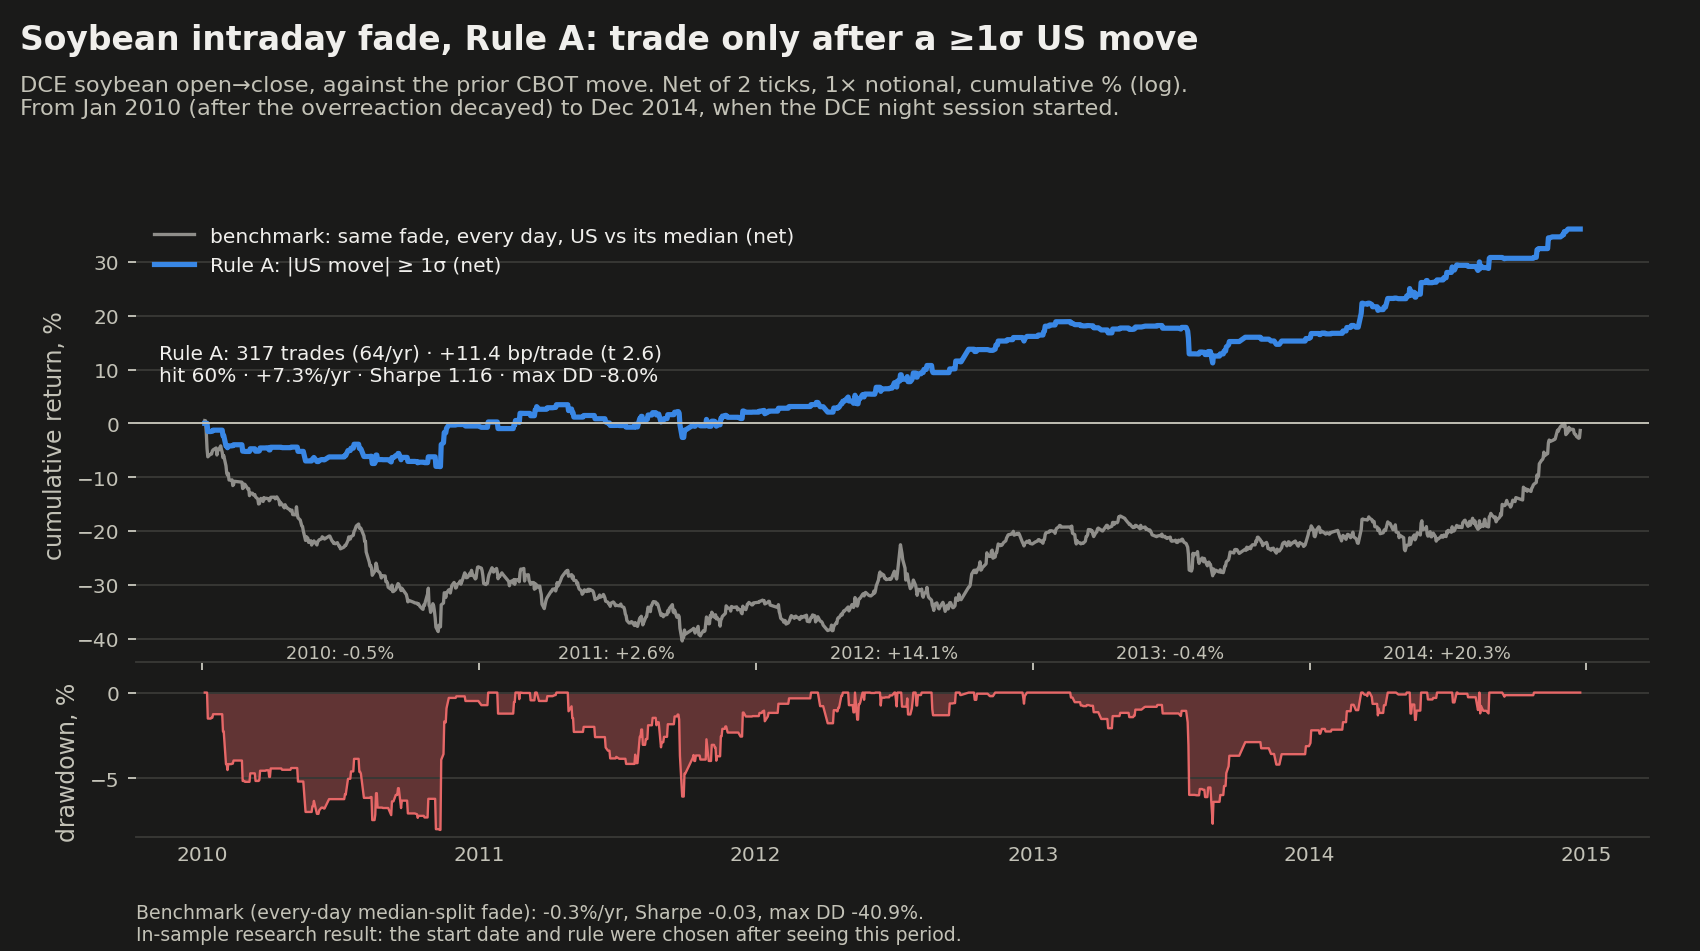
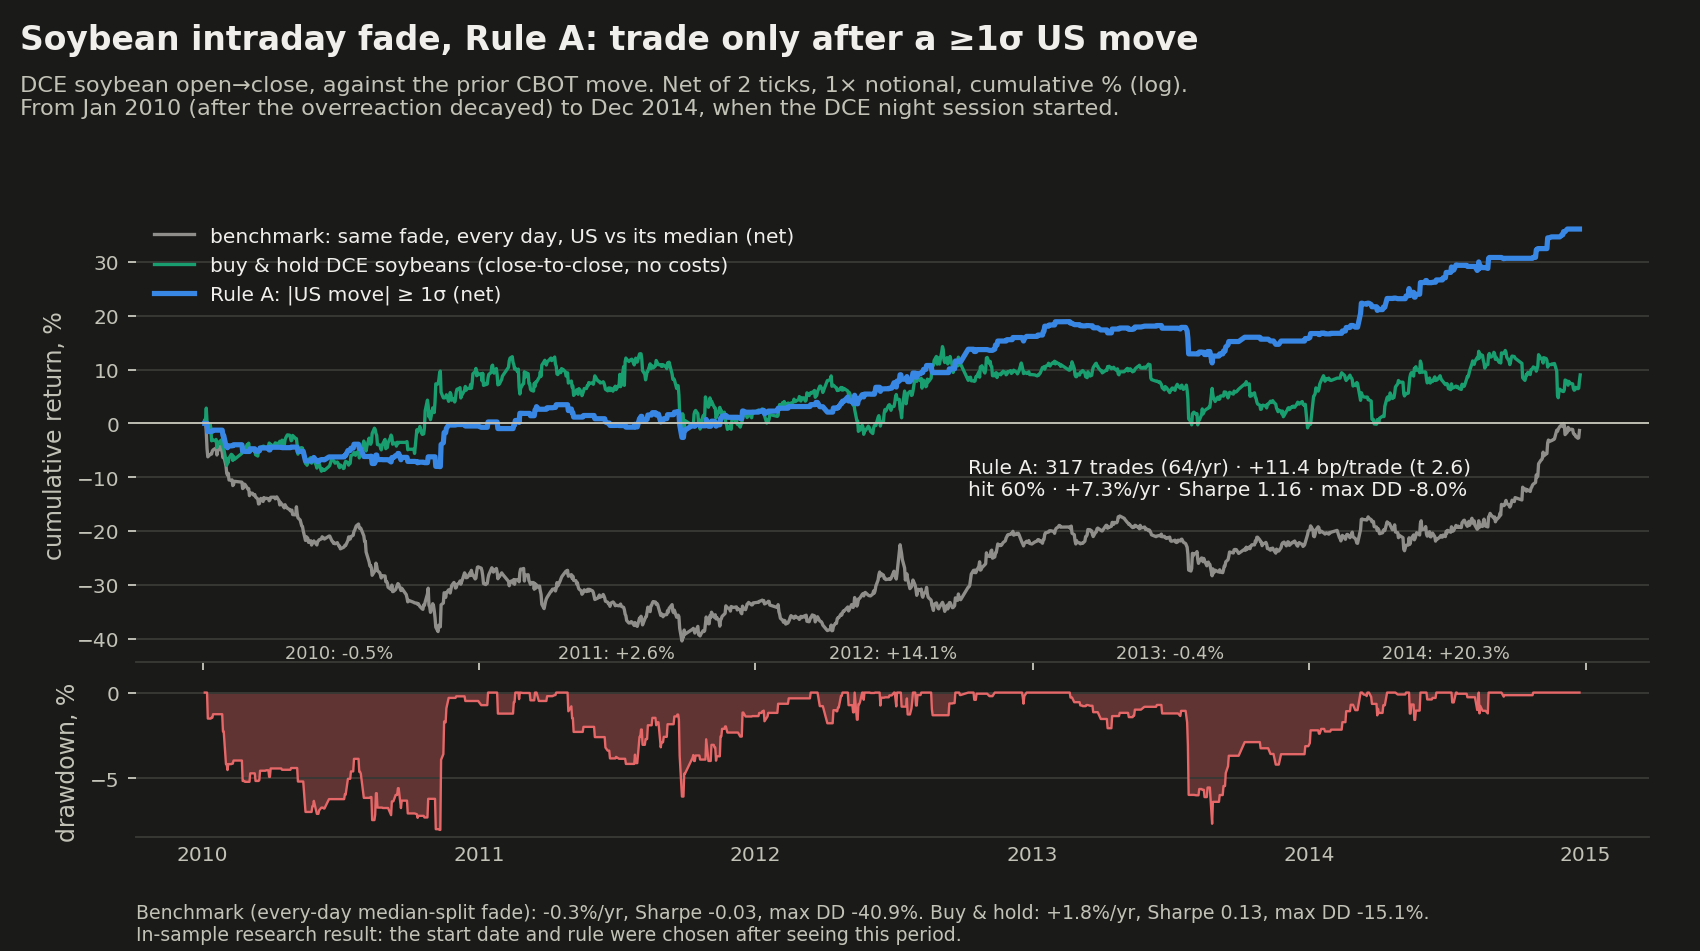
Add buy-and-hold DCE soybeans benchmark to Rule A backtest
- Chart 6: buy & hold line (close-to-close, roll days flat, no costs)
- STRATEGY.md: buy & hold in benchmark and results tables, yearly comparison,
  measured correlation with Rule A (0.04 daily, 0.28 monthly)
- README summary updated

diff --git a/scripts/08_soy_equity.py b/scripts/08_soy_equity.py
@@ -53,6 +53,9 @@ d["base_net"] = pos_b * j.CN_IN - pos_b.abs() * cost
 d = d.loc[START:].dropna(subset=["pos_A", "CN_IN"])
 d[["A_gross", "A_net", "base_net"]] = d[["A_gross", "A_net", "base_net"]].fillna(0)
 d.to_csv(TAB / "soy_ruleA_daily.csv")
+# buy & hold the underlying: long DCE soybean main contract, close-to-close on the DCE calendar.
+# Roll days (contract switch in the Sina series) are set to 0 ~ a roll-adjusted hold; no costs.
+bh = cnr["D"].loc[d.index[0]:end].fillna(0)
 
 
 def summary(p, pos):
@@ -65,19 +68,21 @@ def summary(p, pos):
                 sharpe=p.mean() / p.std() * np.sqrt(len(p) / yrs), maxdd_bp=1e4 * (eq - eq.cummax()).min())
 
 
-S = {"A": summary(d.A_net, d.pos_A), "base": summary(d.base_net, d.base_net.where(d.base_net == 0, 1))}
+S = {"A": summary(d.A_net, d.pos_A), "base": summary(d.base_net, d.base_net.where(d.base_net == 0, 1)),
+     "bh": summary(bh, pd.Series(1, index=bh.index))}
 for k, v in S.items():
     print(k, {a: round(b, 2) for a, b in v.items()})
 yearly = d.groupby(d.index.year).agg(trades=("pos_A", lambda x: int((x != 0).sum())),
                                      ruleA_net_pct=("A_net", lambda x: 100 * x.sum()),
                                      baseline_net_pct=("base_net", lambda x: 100 * x.sum()))
+yearly["buyhold_pct"] = 100 * bh.groupby(bh.index.year).sum()
 print(yearly.round(1).to_string())
 
 THEMES = {
     "light": dict(surf="#fcfcfb", ink="#0b0b0b", ink2="#52514e", muted="#8f8e8a", grid="#e4e3df",
-                  s1="#2a78d6", s2="#eb6834", dd="#e34948"),
+                  s1="#2a78d6", s2="#eb6834", s3="#1baf7a", dd="#e34948"),
     "dark": dict(surf="#1a1a19", ink="#f0efec", ink2="#c3c2b7", muted="#8f8e8a", grid="#383835",
-                 s1="#3987e5", s2="#d95926", dd="#e66767"),
+                 s1="#3987e5", s2="#d95926", s3="#199e70", dd="#e66767"),
 }
 for theme, t in THEMES.items():
     plt.rcParams.update({"figure.facecolor": t["surf"], "axes.facecolor": t["surf"], "savefig.facecolor": t["surf"],
@@ -95,13 +100,15 @@ for theme, t in THEMES.items():
              color=t["ink2"], va="top")
     eqA, eqB = 100 * d.A_net.cumsum(), 100 * d.base_net.cumsum()
     ax.plot(eqB.index, eqB.values, color=t["muted"], lw=1.4, label="benchmark: same fade, every day, US vs its median (net)")
+    eqH = 100 * bh.cumsum()
+    ax.plot(eqH.index, eqH.values, color=t["s3"], lw=1.4, label="buy & hold DCE soybeans (close-to-close, no costs)")
     ax.plot(eqA.index, eqA.values, color=t["s1"], lw=2.2, label="Rule A: |US move| ≥ 1σ (net)")
     ax.axhline(0, color=t["ink2"], lw=0.8)
 
     ax.set_ylabel("cumulative return, %")
     ax.legend(loc="upper left", fontsize=8.5)
     a = S["A"]
-    ax.text(0.015, 0.70, f"Rule A: {a['trades']} trades ({a['per_year']:.0f}/yr) · {a['bp_trade']:+.1f} bp/trade "
+    ax.text(0.55, 0.45, f"Rule A: {a['trades']} trades ({a['per_year']:.0f}/yr) · {a['bp_trade']:+.1f} bp/trade "
             f"(t {a['t']:.1f})\nhit {100 * a['hit']:.0f}% · {a['ann_bp'] / 100:+.1f}%/yr · Sharpe {a['sharpe']:.2f} · "
             f"max DD {a['maxdd_bp'] / 100:.1f}%", transform=ax.transAxes, fontsize=8.5, color=t["ink"], va="top")
     for y, r in yearly.iterrows():
@@ -114,9 +121,10 @@ for theme, t in THEMES.items():
     axd.xaxis.set_major_locator(mdates.YearLocator())
     axd.xaxis.set_major_formatter(mdates.DateFormatter("%Y"))
     axd.tick_params(axis="x", length=0)
-    b = S["base"]
+    b, h = S["base"], S["bh"]
     fig.text(0.08, 0.012, f"Benchmark (every-day median-split fade): {b['ann_bp'] / 100:+.1f}%/yr, Sharpe {b['sharpe']:.2f}, max DD "
-             f"{b['maxdd_bp'] / 100:.1f}%.\nIn-sample research result: the start date and rule were chosen after "
+             f"{b['maxdd_bp'] / 100:.1f}%. Buy & hold: {h['ann_bp'] / 100:+.1f}%/yr, Sharpe {h['sharpe']:.2f}, max DD "
+             f"{h['maxdd_bp'] / 100:.1f}%.\nIn-sample research result: the start date and rule were chosen after "
              "seeing this period.", fontsize=8, color=t["ink2"])
     fig.savefig(DOCS / f"6_soy_equity_{theme}.png", dpi=170)
     plt.close(fig)

diff --git a/STRATEGY.md b/STRATEGY.md
@@ -50,23 +50,25 @@ Every strategy here uses the same execution: enter at the DCE open on day *t+1*,
 | **Rule A** | Fade the US move only when \|z\| ≥ 1, otherwise flat (about 27% of days) | — |
 | **Benchmark: every-day median-split fade** (*"trade every day"*) | **Every** trading day: short DCE if the CBOT soybean return on day *t* was above its historical median (expanding window, ≥250 days), long if below. Always in the market. | Does the 1σ filter add value? This is the paper's median-quantile (α = 0.5) finding traded directly, with the same direction and execution as Rule A. The only difference is the filter. |
 | **Passive: long open → close every day** | Buy DCE soybeans at every open, sell at the close, ignoring the US entirely | Is Rule A just picking up an intraday drift in DCE soybeans? |
+| **Buy & hold DCE soybeans** | Hold the main contract every day, close to close (roll days set to 0, no costs) | Does an active strategy beat simply owning the underlying? Note that this carries overnight risk, which the intraday strategies don't. |
 | **Cash** | No position | The zero line. Every strategy has to beat it after costs. |
 
 ### Results
-| | Rule A | Every-day median-split fade | Passive long open→close |
-|---|---|---|---|
-| Days in the market | 317 (64/yr) | 1,162 (all) | 1,162 (all) |
-| Per trade | **+11.4 bp** (t 2.6) | −0.1 bp | −4.0 bp |
-| Hit rate | 60% | 52% | — |
-| Return / yr | **+7.3%** | −0.3% | −9.4% (+1.2% before costs) |
-| Sharpe | **1.16** | −0.03 | −0.89 |
-| Max drawdown | −8.0% | −40.9% | −51.9% |
+| | Rule A | Every-day median-split fade | Passive long open→close | Buy & hold DCE soybeans |
+|---|---|---|---|---|
+| Days in the market | 317 (64/yr) | 1,162 (all) | 1,162 (all) | 1,203 (all, incl. overnight) |
+| Per trade / day | **+11.4 bp** (t 2.6) | −0.1 bp | −4.0 bp | +0.75 bp/day (t 0.3) |
+| Hit rate | 60% | 52% | — | 51% of days up |
+| Return / yr | **+7.3%** | −0.3% | −9.4% (+1.2% before costs) | +1.8% (no costs) |
+| Sharpe | **1.16** | −0.03 | −0.89 | 0.13 |
+| Max drawdown | −8.0% | −40.9% | −51.9% | −15.1% |
 
 **Reading it:**
 - The direction signal alone (the every-day fade) has no net edge after 2010, so all of Rule A's value comes from *which days* it trades.
 - There's no meaningful intraday drift to explain the result: the passive long earns +1.2%/yr before costs and loses money after.
+- **Simply owning the underlying** made +1.8%/yr (Sharpe 0.13) with a −15% drawdown. Soybeans went roughly sideways over 2010–14. Rule A made about 4× the return with about half the drawdown, and it's flat overnight. It's only loosely tied to market direction (correlation with buy & hold: 0.04 daily, 0.28 monthly): in 2013 buy-and-hold lost 9.3% while Rule A was flat, and in 2011 buy-and-hold lost 7.1% while Rule A made 2.6%.
 
-By year: 2010 −0.5%, 2011 +2.6%, **2012 +14.1%**, 2013 −0.4%, **2014 +20.3%**. Two of the five years produce nearly all the return. With only 317 trades, that concentration is a real risk.
+By year, Rule A vs buy & hold: 2010 −0.5% vs +9.0%, 2011 +2.6% vs −7.1%, **2012 +14.1%** vs +7.1%, 2013 −0.4% vs −9.3%, **2014 +20.3%** vs +9.3%. Two of the five years produce nearly all the return. With only 317 trades, that concentration is a real risk.
 
 ## 4. Why we can't trust it yet
 1. **It's in-sample.** The 1σ threshold, the 2010 start and the choice of soybeans were all made after seeing results that included this period.

diff --git a/README.md b/README.md
@@ -54,7 +54,7 @@ The overreaction shrank by about 60% after 2010, in every commodity, and volatil
 </picture>
 
 **Rule A:** when CBOT soybeans close up or down at least 1σ (trailing 60-day vol), take the *opposite* side in DCE soybeans at the next open, and exit at that day's close. Otherwise stay flat.
-- **2010 to Dec 2014:** 317 trades, +11.4 bp/trade net (t 2.6), +7.3%/yr, Sharpe 1.16, max drawdown −8%. The benchmark, the same fade traded every day (short DCE after an above-median US day, long after a below-median one), made −0.3%/yr with a −41% drawdown. Passively buying DCE's open and selling its close made −9.4%/yr after costs.
+- **2010 to Dec 2014:** 317 trades, +11.4 bp/trade net (t 2.6), +7.3%/yr, Sharpe 1.16, max drawdown −8%. The benchmark, the same fade traded every day (short DCE after an above-median US day, long after a below-median one), made −0.3%/yr with a −41% drawdown. Passively buying DCE's open and selling its close made −9.4%/yr after costs, and buy-and-hold of DCE soybeans made +1.8%/yr (Sharpe 0.13, −15% drawdown).
 - **Why these rules:** China's open overreacts to the US move, and only on big moves is the reversal larger than costs. Soybeans decayed least of the four commodities.
 - **Caveats:** this is in-sample, most of the return comes from 2012 and 2014, and it can't be run as built after the Dec 2014 night session.
 
